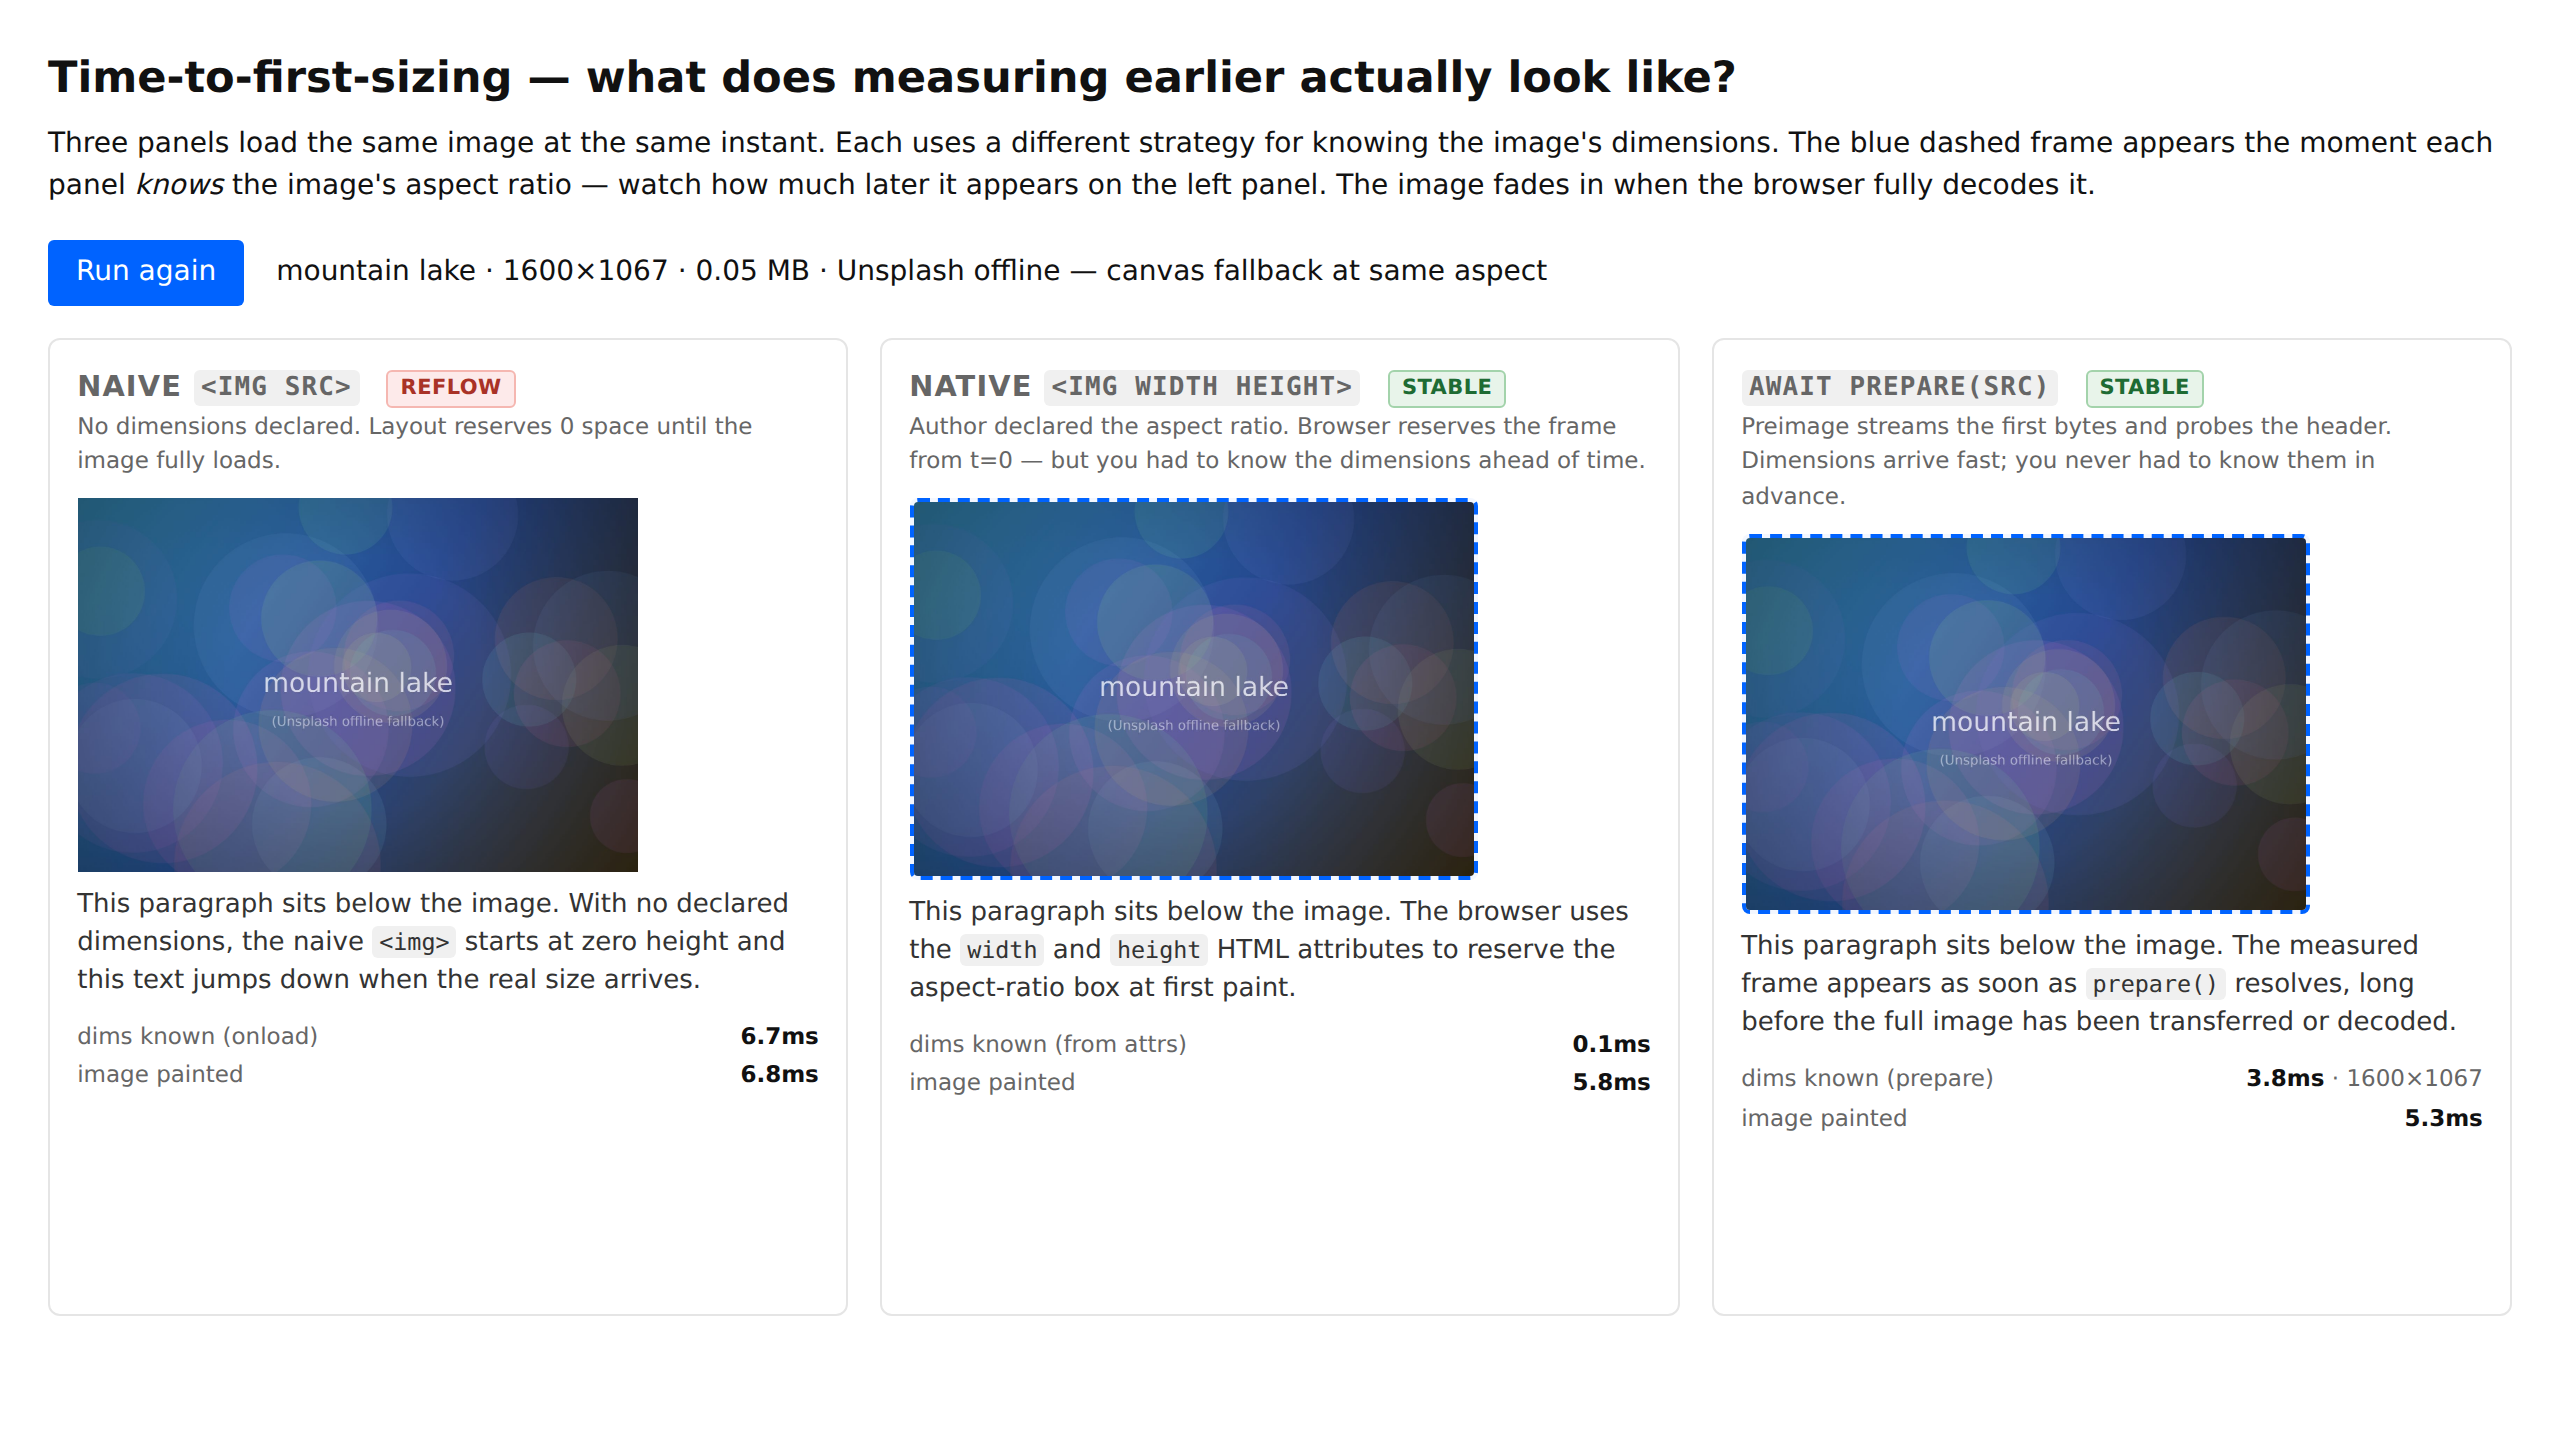
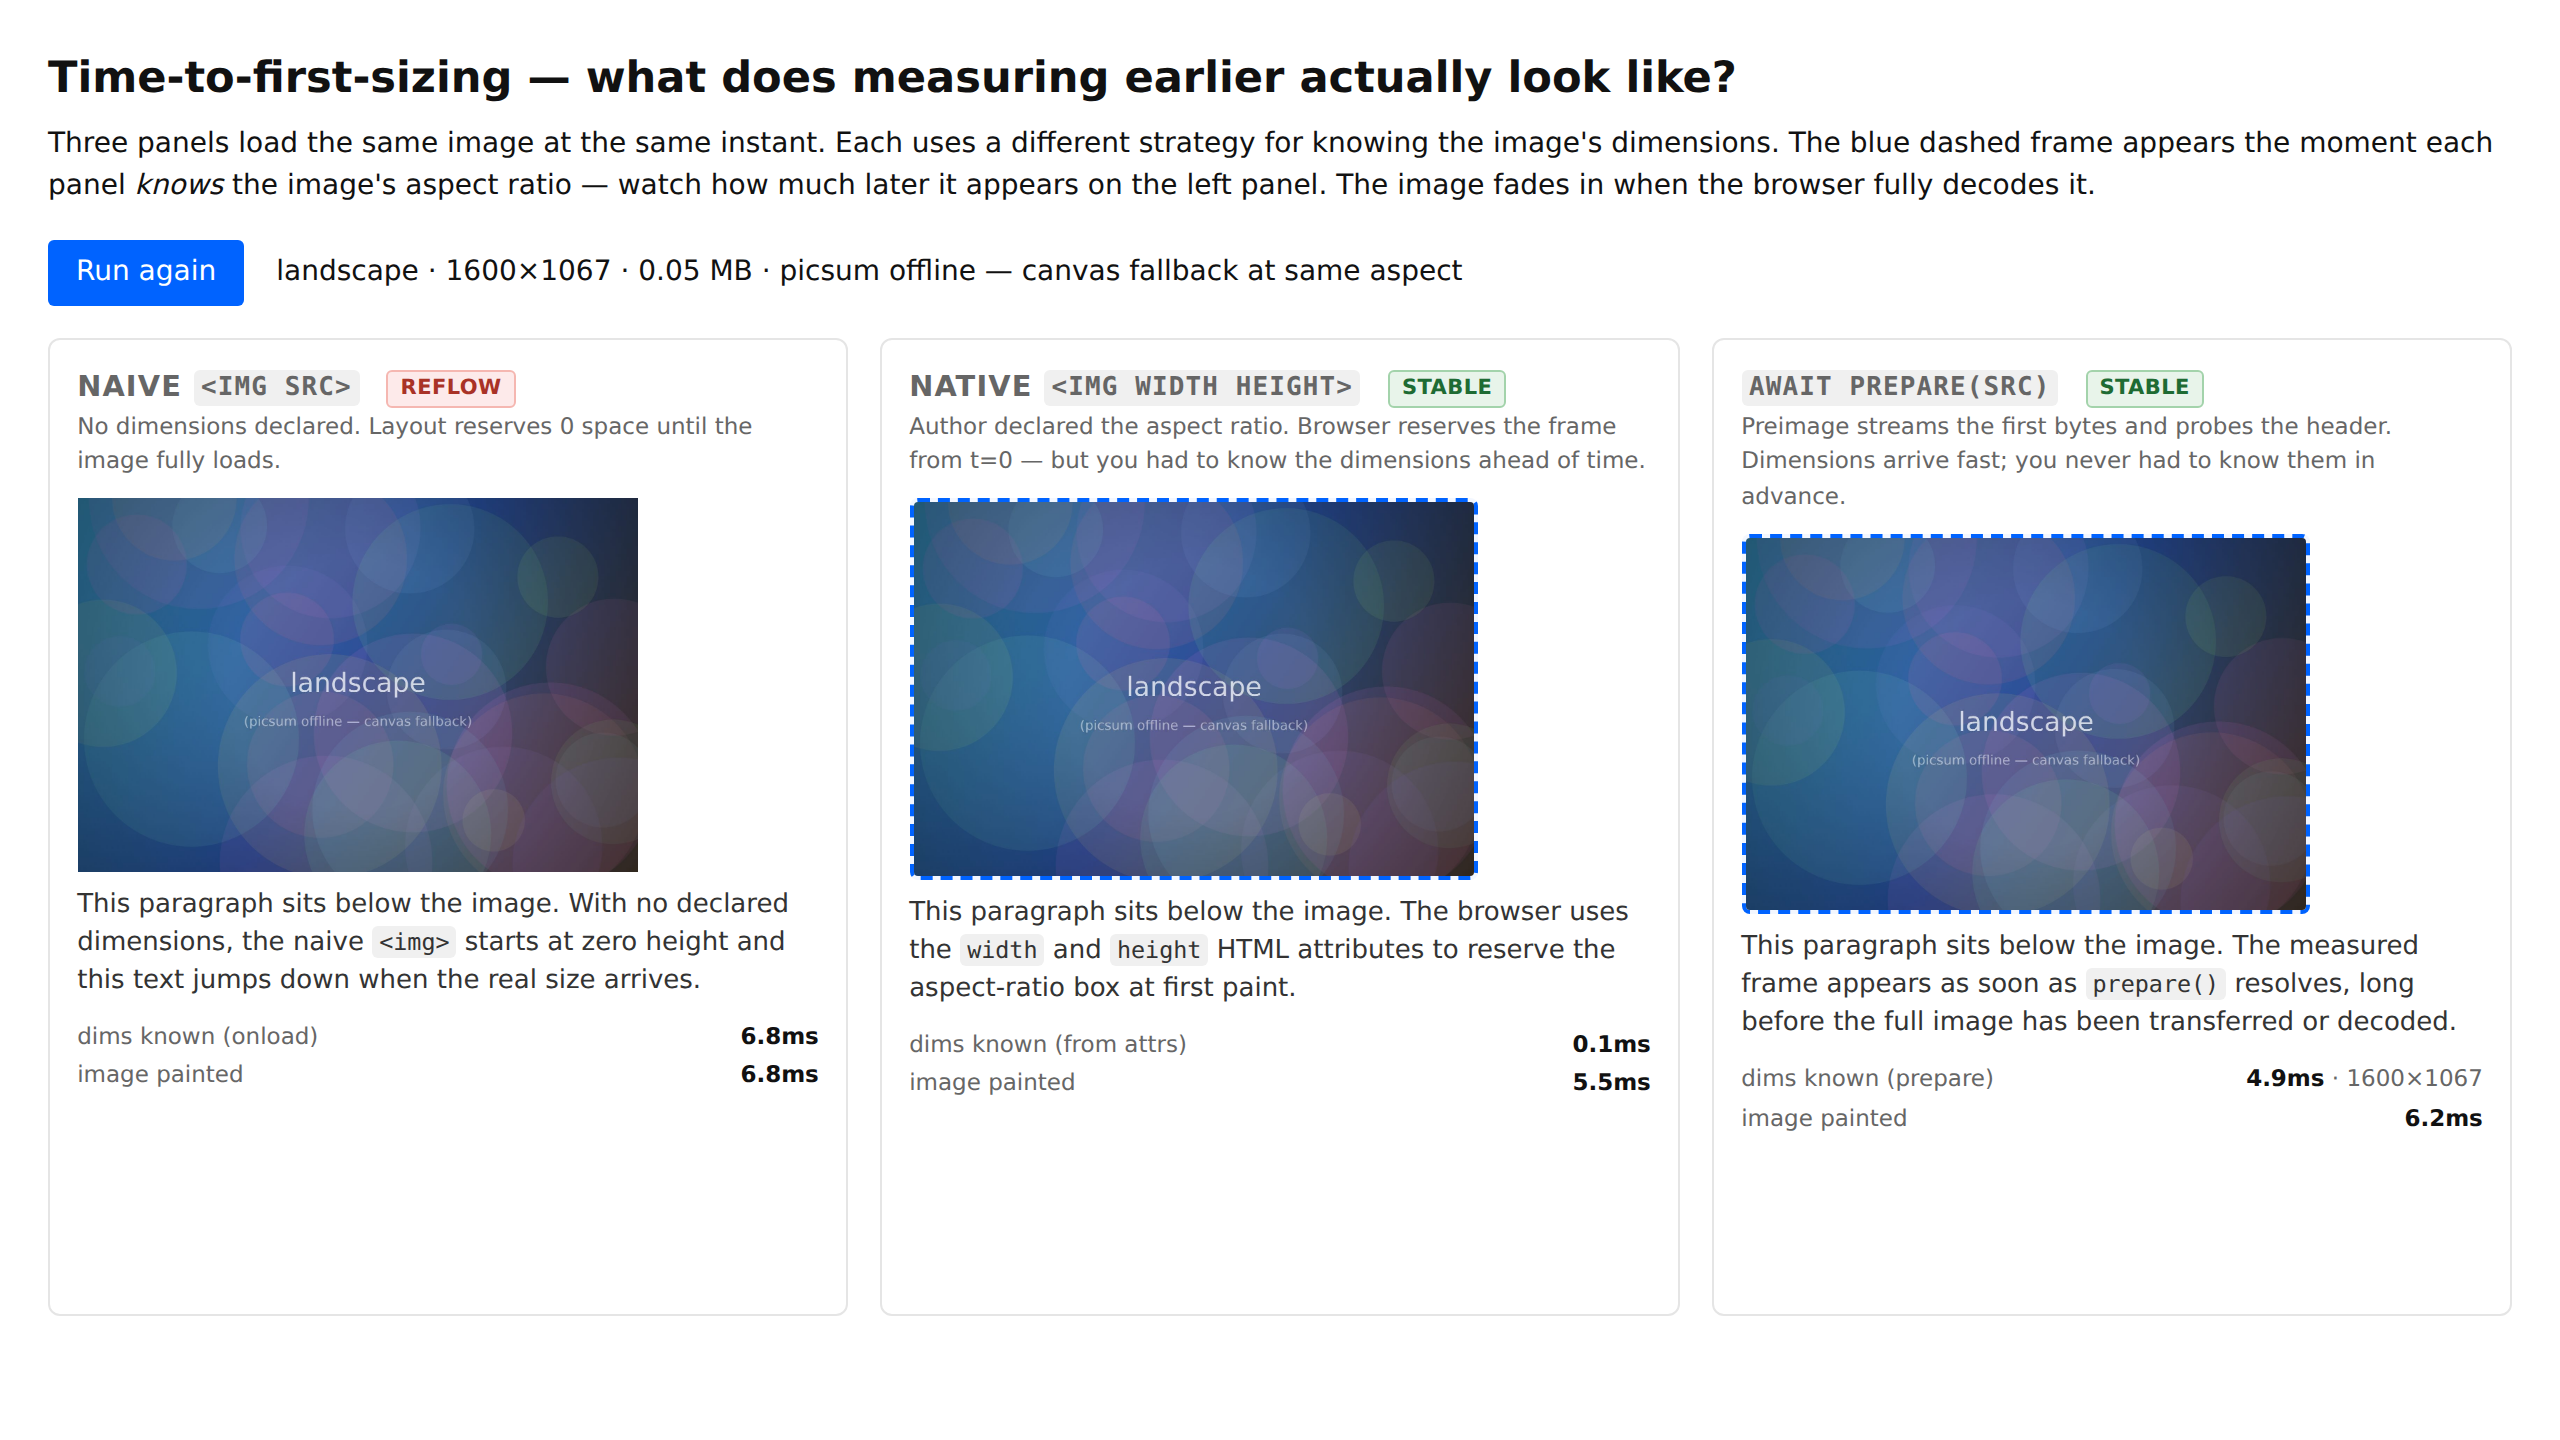
Swap Unsplash URLs for picsum.photos seeds
Direct images.unsplash.com URLs don't work without an API key and are
blocked by CORS in the browser. Picsum serves the same Unsplash content
with open CORS, exact-dimension URLs (/seed/NAME/W/H), and stable seeds
— the demos look the same across runs when online.

Renamed PhotoDescriptor.slug -> seed for clarity. UNSPLASH_PHOTOS kept
as a back-compat alias pointing at PICSUM_PHOTOS; meta text updated to
say 'picsum.photos' instead of 'Unsplash'. Fallback behavior unchanged
— sandboxed / offline environments still see painted canvas fallbacks
at the same aspect ratios.

diff --git a/pages/demos/photo-source.ts b/pages/demos/photo-source.ts
@@ -1,38 +1,44 @@
 // Shared helper for the reflow-comparison demos: load a real photo from
-// Unsplash (when the network allows it) or fall back to a locally-generated
-// canvas Blob that mimics the same aspect ratio. All demos use this so
-// every panel starts from the same Blob set — the comparison stays fair
-// even when the network isn't available.
+// picsum.photos (when the network allows) or fall back to a locally-
+// generated canvas Blob at the same aspect ratio. Every demo uses this
+// so all panels start from the same Blob set — the comparison stays
+// fair even when the network isn't available.
+//
+// We use picsum.photos rather than images.unsplash.com directly because
+// picsum serves photos with open CORS, exact-dimension URLs, and stable
+// seeded results. (Direct Unsplash URLs require an API key and don't
+// always honor requested dimensions.)
 
 export type PhotoDescriptor = {
-  slug: string // Unsplash photo id
+  seed: string // picsum seed — same seed always returns the same photo
   width: number
   height: number
   caption?: string
 }
 
-// Curated Unsplash photos with stable IDs. Each aspect ratio is distinct
-// so the masonry packer has variety to work with. Using fixed IDs means
-// demos look the same across runs when online.
-export const UNSPLASH_PHOTOS: PhotoDescriptor[] = [
-  { slug: 'JmVaNyemtN8', width: 1600, height: 1067, caption: 'mountain lake' },
-  { slug: 'sNr_MitXwQY', width: 1200, height: 1600, caption: 'portrait figure' },
-  { slug: 'FV3GConVSss', width: 1800, height: 1200, caption: 'autumn forest' },
-  { slug: 'DqgMHzeio7Q', width: 1600, height: 900, caption: 'cityscape' },
-  { slug: 'T87DV5FvtEE', width: 1000, height: 1400, caption: 'architecture' },
-  { slug: 'B8A7wFrGCIY', width: 1500, height: 1000, caption: 'ocean shore' },
-  { slug: 'gKXKBY-C-Dk', width: 1400, height: 1400, caption: 'square still' },
-  { slug: '4hbJ-eymZ1o', width: 1800, height: 1200, caption: 'desert' },
+// Curated seeds with distinct aspect ratios so the masonry packer has
+// variety to work with. Seeds are stable: reloading the demo returns
+// the same photos.
+export const PICSUM_PHOTOS: PhotoDescriptor[] = [
+  { seed: 'preimage-mountain', width: 1600, height: 1067, caption: 'landscape' },
+  { seed: 'preimage-portrait', width: 1200, height: 1600, caption: 'portrait' },
+  { seed: 'preimage-forest', width: 1800, height: 1200, caption: 'forest' },
+  { seed: 'preimage-city', width: 1600, height: 900, caption: 'cityscape' },
+  { seed: 'preimage-arch', width: 1000, height: 1400, caption: 'architecture' },
+  { seed: 'preimage-shore', width: 1500, height: 1000, caption: 'shore' },
+  { seed: 'preimage-square', width: 1400, height: 1400, caption: 'square' },
+  { seed: 'preimage-desert', width: 1800, height: 1200, caption: 'desert' },
 ]
 
-function unsplashUrl(slug: string, width: number): string {
-  // `&q=80` keeps the file small enough to stream quickly while still
-  // looking like a real photo on the screen.
-  return `https://images.unsplash.com/photo-${slug}?w=${width}&q=80&auto=format&fit=crop`
+// Back-compat alias for any older demo still importing the Unsplash name.
+export const UNSPLASH_PHOTOS = PICSUM_PHOTOS
+
+function picsumUrl(p: PhotoDescriptor): string {
+  return `https://picsum.photos/seed/${encodeURIComponent(p.seed)}/${p.width}/${p.height}`
 }
 
-// Canvas fallback: paint something photo-like (gradient + noise + vignette)
-// that keeps the exact aspect ratio. Used when Unsplash isn't reachable.
+// Canvas fallback: paint something photo-like (gradient + bokeh + vignette)
+// at the exact aspect ratio. Used when picsum isn't reachable.
 async function generateFallback(
   width: number,
   height: number,
@@ -49,14 +55,12 @@ async function generateFallback(
   grad.addColorStop(1, `hsl(${(hue + 200) % 360} 45% 18%)`)
   ctx.fillStyle = grad
   ctx.fillRect(0, 0, width, height)
-  // Large soft blobs to feel like bokeh.
   for (let i = 0; i < 30; i++) {
     ctx.fillStyle = `hsla(${(hue + i * 17) % 360}, 55%, 65%, 0.12)`
     ctx.beginPath()
     ctx.arc(Math.random() * width, Math.random() * height, 80 + Math.random() * 240, 0, Math.PI * 2)
     ctx.fill()
   }
-  // Vignette.
   const vign = ctx.createRadialGradient(
     width / 2, height / 2, Math.min(width, height) / 3,
     width / 2, height / 2, Math.max(width, height) * 0.7,
@@ -65,7 +69,6 @@ async function generateFallback(
   vign.addColorStop(1, 'rgba(0,0,0,0.45)')
   ctx.fillStyle = vign
   ctx.fillRect(0, 0, width, height)
-  // Caption stamp.
   ctx.fillStyle = 'rgba(255,255,255,0.75)'
   ctx.font = `${Math.round(Math.min(width, height) / 14)}px system-ui`
   ctx.textAlign = 'center'
@@ -73,7 +76,7 @@ async function generateFallback(
   ctx.fillText(caption, width / 2, height / 2)
   ctx.font = `${Math.round(Math.min(width, height) / 28)}px system-ui`
   ctx.fillStyle = 'rgba(255,255,255,0.5)'
-  ctx.fillText('(Unsplash offline fallback)', width / 2, height / 2 + Math.min(width, height) / 10)
+  ctx.fillText('(picsum offline — canvas fallback)', width / 2, height / 2 + Math.min(width, height) / 10)
   return await new Promise<Blob>((resolve, reject) => {
     canvas.toBlob(
       (b) => (b !== null ? resolve(b) : reject(new Error('toBlob failed'))),
@@ -83,19 +86,15 @@ async function generateFallback(
   })
 }
 
-// Load one photo. Tries Unsplash first; if the fetch fails (CORS, offline,
-// host_not_allowed in sandboxed contexts), generates a canvas-based
-// fallback at the same aspect ratio.
 export async function loadPhoto(
   p: PhotoDescriptor,
-  renderWidth: number,
   fallbackHue: number,
-): Promise<{ blob: Blob; origin: 'unsplash' | 'fallback' }> {
+): Promise<{ blob: Blob; origin: 'picsum' | 'fallback' }> {
   try {
-    const res = await fetch(unsplashUrl(p.slug, renderWidth), { mode: 'cors' })
+    const res = await fetch(picsumUrl(p), { mode: 'cors' })
     if (!res.ok) throw new Error(`status ${res.status}`)
     const blob = await res.blob()
-    return { blob, origin: 'unsplash' }
+    return { blob, origin: 'picsum' }
   } catch {
     const blob = await generateFallback(
       p.width,
@@ -109,9 +108,8 @@ export async function loadPhoto(
 
 export async function loadPhotos(
   photos: readonly PhotoDescriptor[],
-  renderWidth: number,
-): Promise<Array<{ blob: Blob; origin: 'unsplash' | 'fallback' }>> {
+): Promise<Array<{ blob: Blob; origin: 'picsum' | 'fallback' }>> {
   return await Promise.all(
-    photos.map((p, i) => loadPhoto(p, renderWidth, (i * 43) % 360)),
+    photos.map((p, i) => loadPhoto(p, (i * 43) % 360)),
   )
 }

diff --git a/pages/demos/editorial.ts b/pages/demos/editorial.ts
@@ -24,9 +24,9 @@ The middle panel shows the simplest modern answer: declare the image width and h
 The right panel uses preimage plus pretext. Preimage measures each figure in a pre-layout pass, streaming the first kilobytes of each file's bytes via a header probe. Pretext lays out the text around those measured rects synchronously. No shift, no skeleton swap, no author-declared attributes — and nothing that depends on the server cooperating.`
 
 const FIGURES: readonly PhotoDescriptor[] = [
-  { slug: 'JmVaNyemtN8', width: 1600, height: 1067, caption: 'mountain lake' },
-  { slug: 'DqgMHzeio7Q', width: 1600, height: 900, caption: 'cityscape' },
-  { slug: 'T87DV5FvtEE', width: 1000, height: 1400, caption: 'architecture' },
+  { seed: 'preimage-editorial-1', width: 1600, height: 1067, caption: 'landscape' },
+  { seed: 'preimage-editorial-2', width: 1600, height: 900, caption: 'cityscape' },
+  { seed: 'preimage-editorial-3', width: 1000, height: 1400, caption: 'portrait' },
 ]
 
 const FIGURE_TOPS = [0, 170, 330]
@@ -202,12 +202,12 @@ async function run(): Promise<void> {
   nativeStat.textContent = 'loading…'
   measuredStat.textContent = 'loading…'
 
-  const loaded = await loadPhotos(FIGURES, 900)
+  const loaded = await loadPhotos(FIGURES)
   const blobs = loaded.map((l) => l.blob)
   const origins = loaded.map((l) => l.origin)
-  const unsplashCount = origins.filter((o) => o === 'unsplash').length
+  const picsumCount = origins.filter((o) => o === 'picsum').length
   const totalMB = blobs.reduce((a, b) => a + b.size, 0) / 1024 / 1024
-  metaEl.textContent = `${FIGURES.length} photos · ${totalMB.toFixed(1)} MB · ${unsplashCount > 0 ? `${unsplashCount}/${blobs.length} from Unsplash` : 'Unsplash offline — using canvas fallbacks at the same aspects'}`
+  metaEl.textContent = `${FIGURES.length} photos · ${totalMB.toFixed(1)} MB · ${picsumCount > 0 ? `${picsumCount}/${blobs.length} from picsum.photos` : 'picsum offline — using canvas fallbacks at the same aspects'}`
 
   runButton.textContent = 'Rendering…'
   naiveStat.textContent = 'rendering…'

diff --git a/pages/demos/masonry.ts b/pages/demos/masonry.ts
@@ -1,6 +1,6 @@
 import { prepare, getMeasurement } from '../../src/index.js'
 import { packGallery, type GalleryItem } from '../../src/gallery.js'
-import { loadPhotos, UNSPLASH_PHOTOS, type PhotoDescriptor } from './photo-source.js'
+import { loadPhotos, PICSUM_PHOTOS, type PhotoDescriptor } from './photo-source.js'
 
 const runButton = document.getElementById('run') as HTMLButtonElement
 const metaEl = document.getElementById('meta')!
@@ -163,12 +163,12 @@ async function run(): Promise<void> {
   nativeStat.textContent = 'loading…'
   measuredStat.textContent = 'loading…'
 
-  const loaded = await loadPhotos(UNSPLASH_PHOTOS, 800)
+  const loaded = await loadPhotos(PICSUM_PHOTOS)
   const blobs = loaded.map((l) => l.blob)
   const origins = loaded.map((l) => l.origin)
-  const unsplashCount = origins.filter((o) => o === 'unsplash').length
+  const picsumCount = origins.filter((o) => o === 'picsum').length
   const totalMB = blobs.reduce((a, b) => a + b.size, 0) / 1024 / 1024
-  metaEl.textContent = `${UNSPLASH_PHOTOS.length} photos · ${totalMB.toFixed(1)} MB · ${unsplashCount > 0 ? `${unsplashCount}/${blobs.length} from Unsplash` : 'Unsplash offline — using canvas fallbacks at the same aspects'}`
+  metaEl.textContent = `${PICSUM_PHOTOS.length} photos · ${totalMB.toFixed(1)} MB · ${picsumCount > 0 ? `${picsumCount}/${blobs.length} from picsum.photos` : 'picsum offline — using canvas fallbacks at the same aspects'}`
 
   runButton.textContent = 'Rendering…'
   naiveStat.textContent = 'rendering…'
@@ -177,7 +177,7 @@ async function run(): Promise<void> {
 
   const [naive, native, measured] = await Promise.all([
     renderNaive(blobs),
-    renderNative(blobs, UNSPLASH_PHOTOS),
+    renderNative(blobs, PICSUM_PHOTOS),
     renderMeasured(blobs),
   ])
 

diff --git a/pages/demos/ttfs.ts b/pages/demos/ttfs.ts
@@ -1,5 +1,5 @@
 import { prepare, getMeasurement } from '../../src/index.js'
-import { loadPhoto, UNSPLASH_PHOTOS } from './photo-source.js'
+import { loadPhoto, PICSUM_PHOTOS } from './photo-source.js'
 
 const runButton = document.getElementById('run') as HTMLButtonElement
 const metaEl = document.getElementById('meta')!
@@ -175,9 +175,9 @@ async function run(): Promise<void> {
   e2.innerHTML = ''
   e3.innerHTML = ''
 
-  const photo = UNSPLASH_PHOTOS[0]!
-  const { blob, origin } = await loadPhoto(photo, 1600, 200)
-  metaEl.textContent = `${photo.caption ?? photo.slug} · ${photo.width}×${photo.height} · ${(blob.size / 1024 / 1024).toFixed(2)} MB · ${origin === 'unsplash' ? 'Unsplash (live)' : 'Unsplash offline — canvas fallback at same aspect'}`
+  const photo = PICSUM_PHOTOS[0]!
+  const { blob, origin } = await loadPhoto(photo, 200)
+  metaEl.textContent = `${photo.caption ?? photo.seed} · ${photo.width}×${photo.height} · ${(blob.size / 1024 / 1024).toFixed(2)} MB · ${origin === 'picsum' ? 'picsum.photos (live)' : 'picsum offline — canvas fallback at same aspect'}`
 
   runButton.textContent = 'Running…'
 
